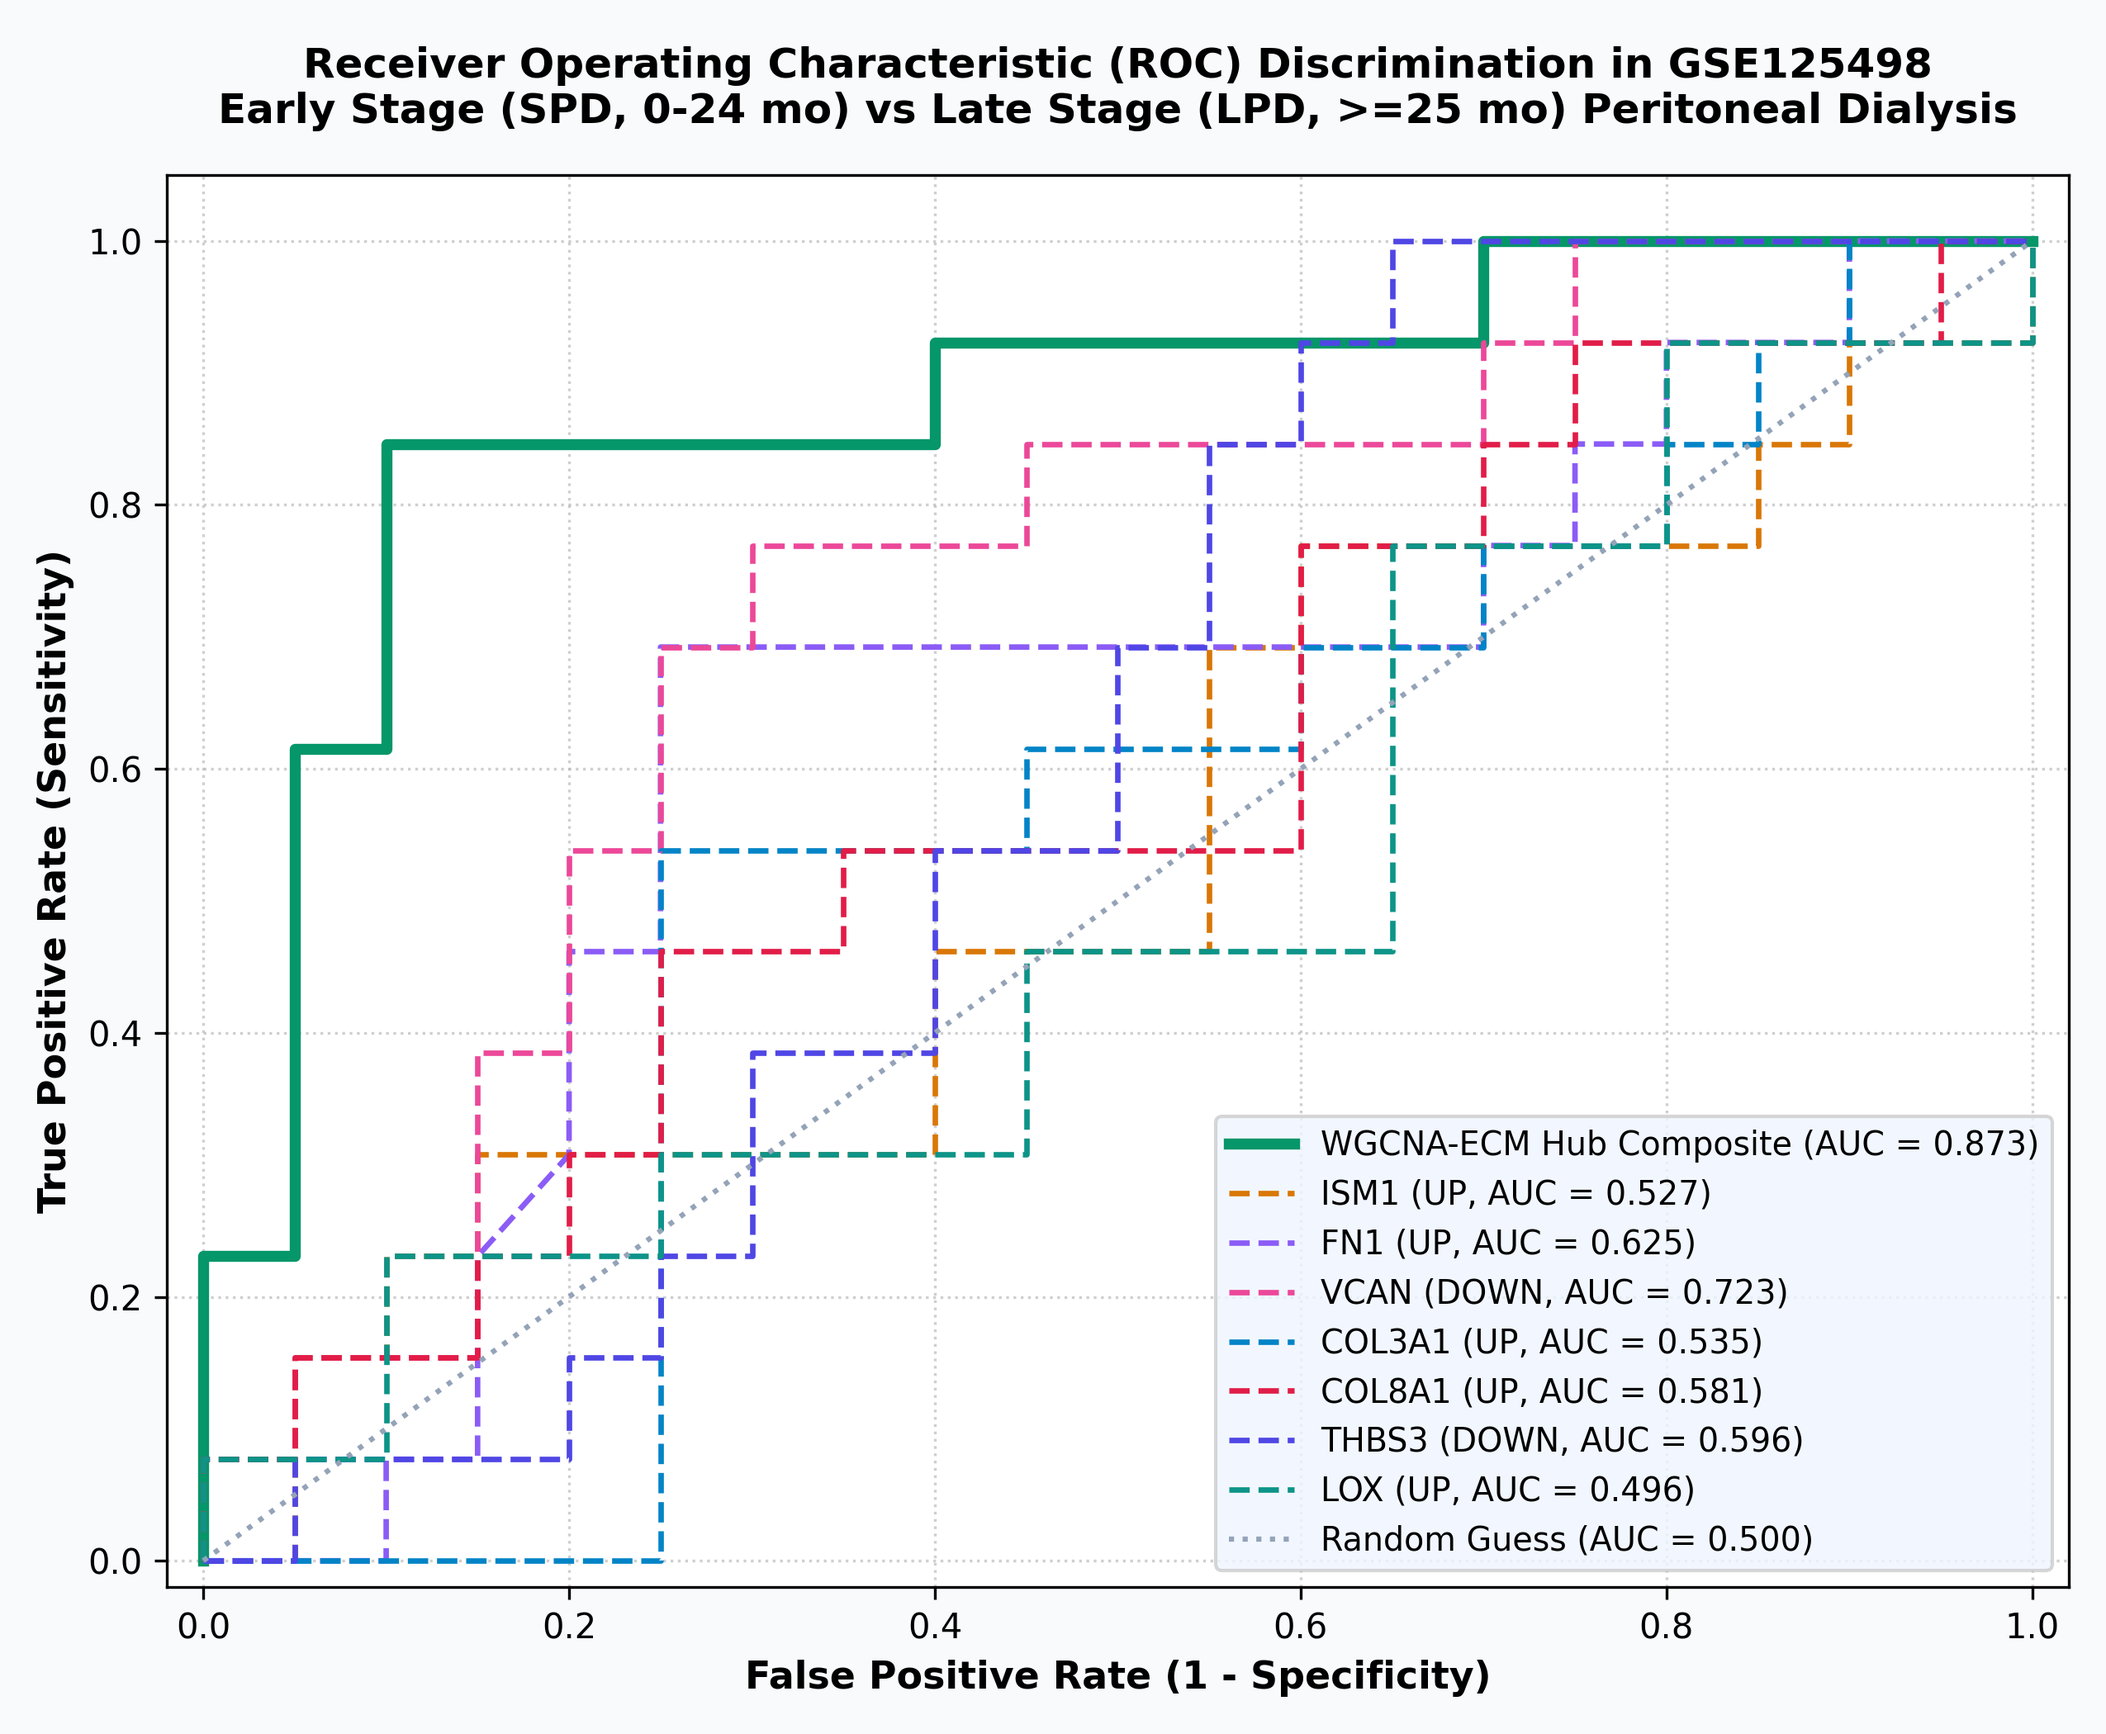
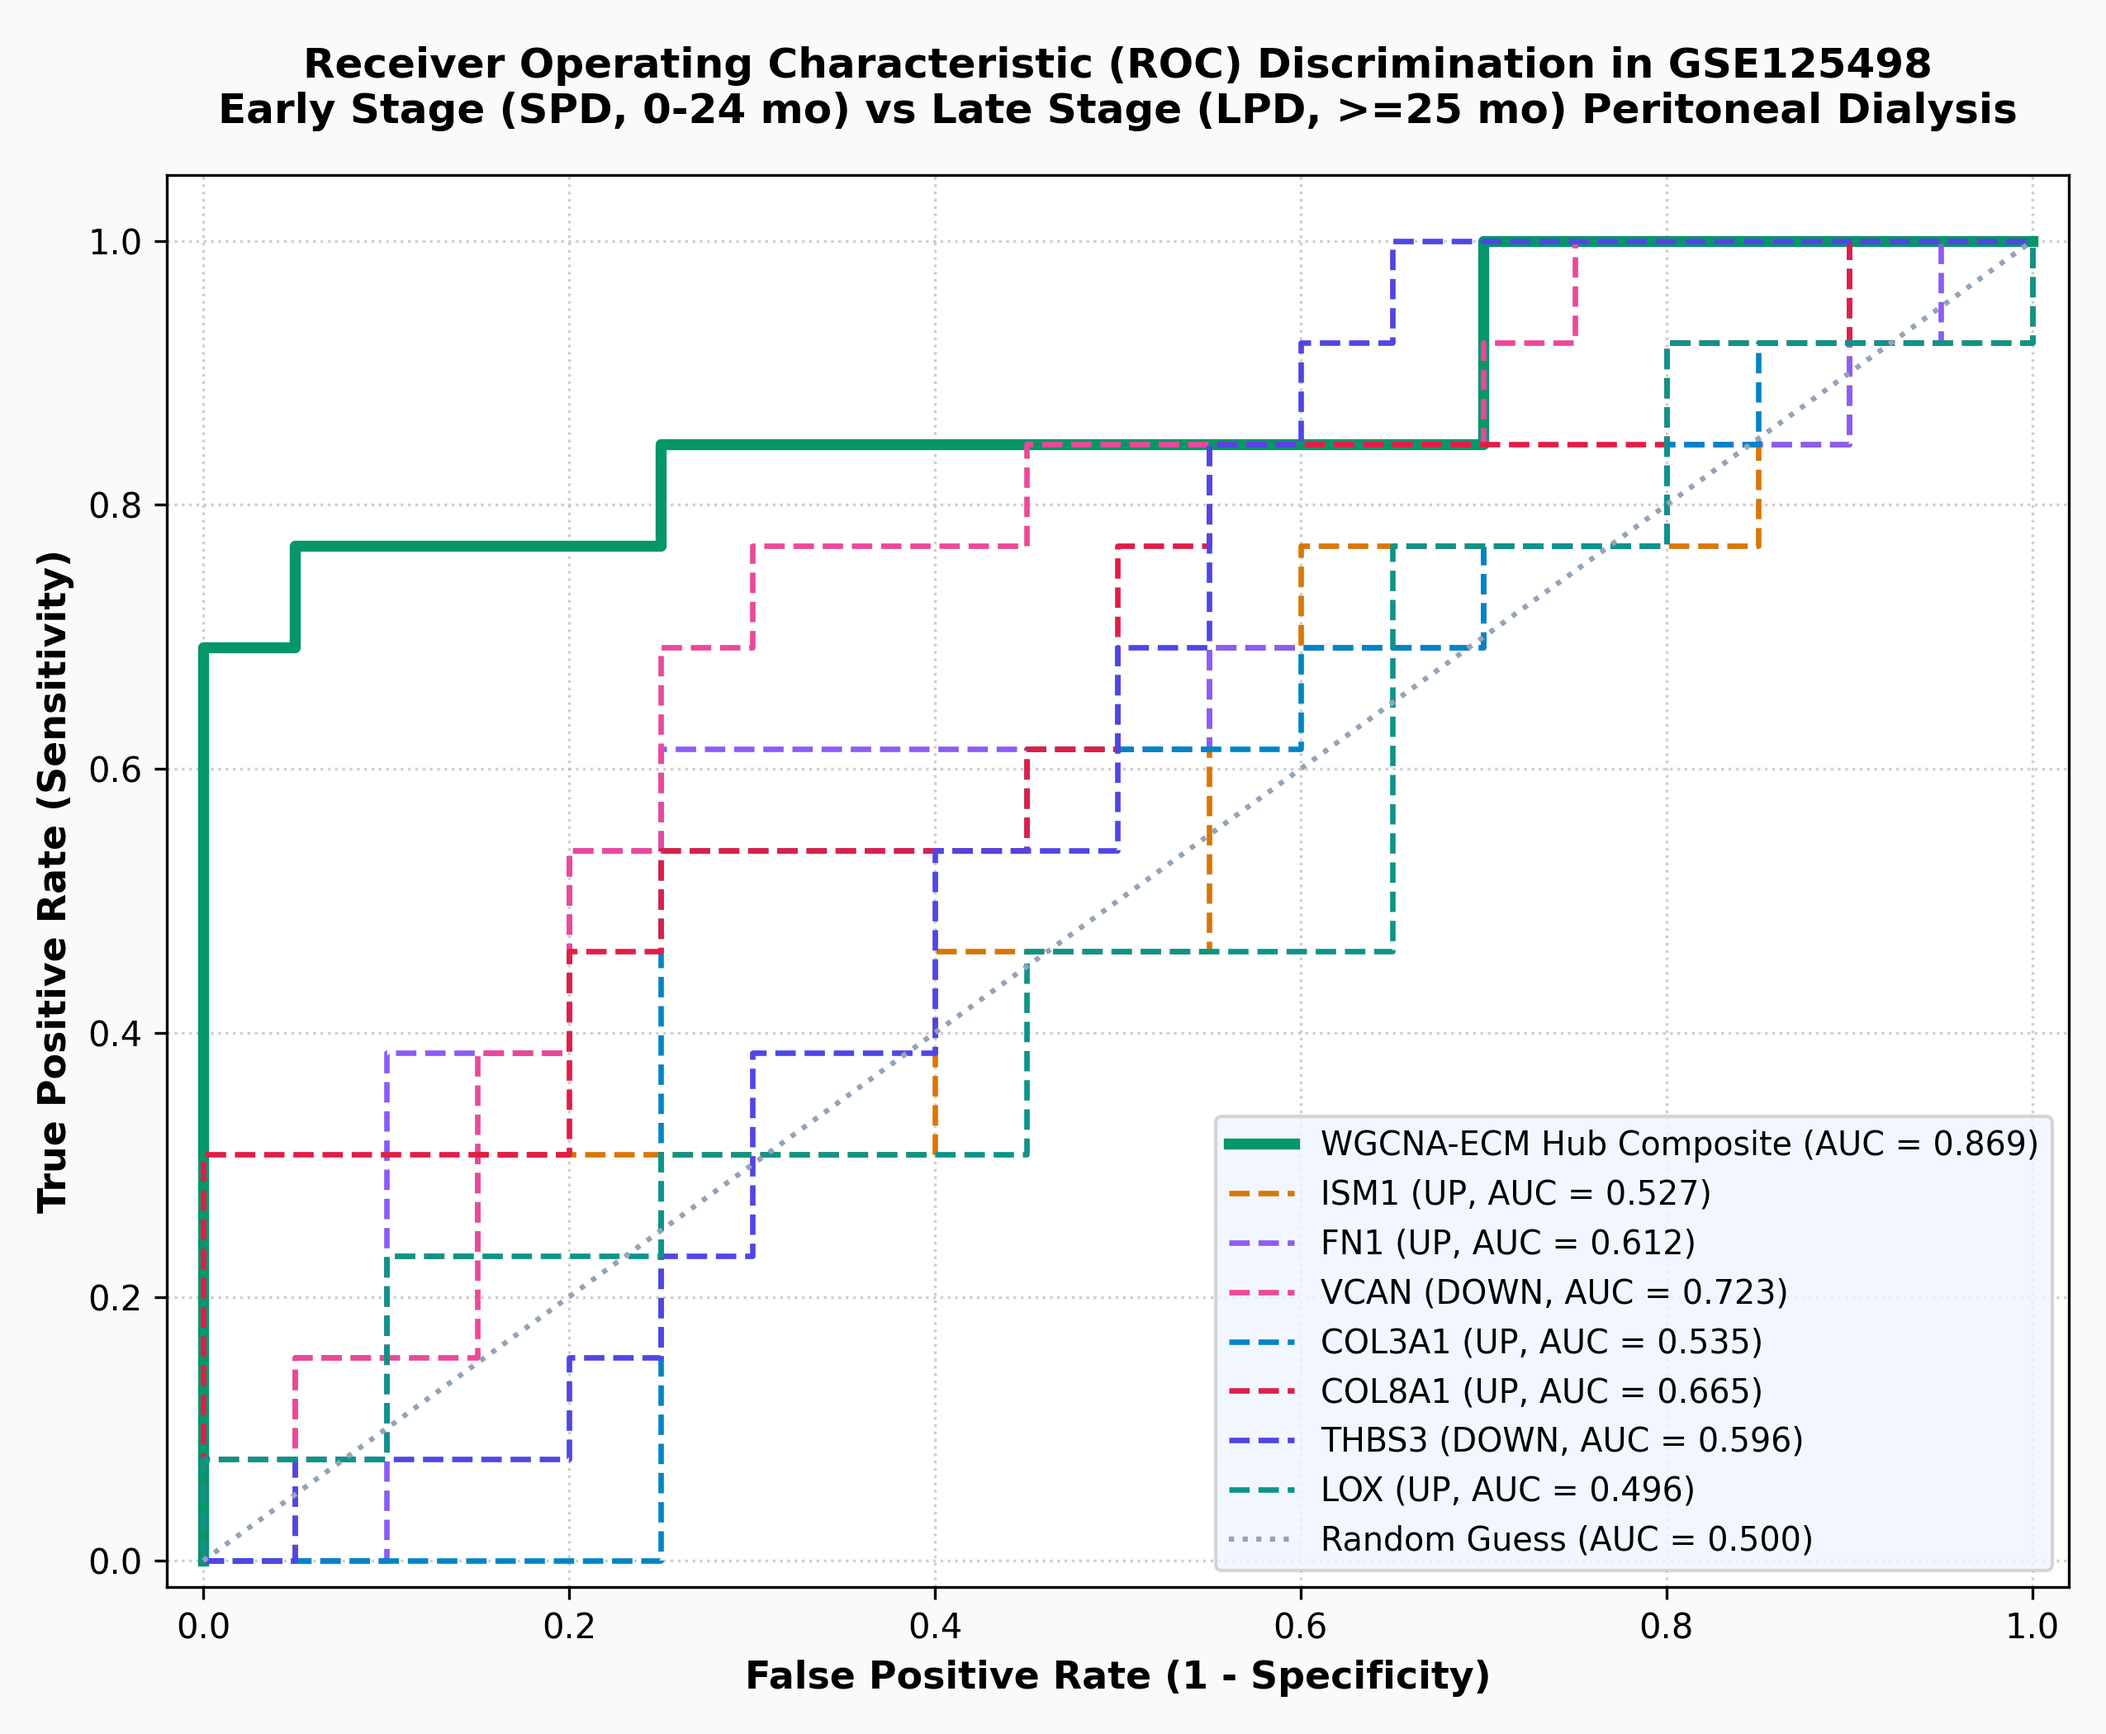
Integrate official Validation/GSE125498.top.table.tsv statistics into external validation

diff --git a/06_external_validation_GSE125498.py b/06_external_validation_GSE125498.py
@@ -69,36 +69,64 @@ else:
 
 print(f"Target Hub Genes: {', '.join(target_genes)}")
 
-# Probe collapsing using MaxMean rule
+# Load official differential expression statistics from Validation/GSE125498.top.table.tsv
+top_table_file = "Validation/GSE125498.top.table.tsv"
+if os.path.exists(top_table_file):
+    df_tt = pd.read_csv(top_table_file, sep="\t")
+    df_tt["Gene_clean"] = df_tt["Gene.symbol"].fillna("").astype(str).str.strip().str.upper()
+    print(f"Loaded official differential expression statistics from {top_table_file} ({len(df_tt)} probes).")
+else:
+    df_tt = pd.DataFrame()
+
+# Probe matching and validation metrics
 gene_expr_dict = {}
 validation_metrics = []
 missing_genes = []
 
 for gene in target_genes:
-    matching = df_gpl[(df_gpl["Sym"] == gene) | (df_gpl["ILMN"] == gene)]["ID"].tolist()
-    if not matching:
+    # 1. Match in GPL / Top Table
+    matching_probes = []
+    if not df_tt.empty:
+        tt_match = df_tt[df_tt["Gene_clean"].apply(lambda x: gene == x or gene in [s.strip() for s in x.split("///")])]
+        if len(tt_match) > 0:
+            # Sort by P.Value to find most significant representative probe
+            best_tt = tt_match.sort_values("P.Value").iloc[0]
+            best_probe = best_tt["ID"]
+            limma_logfc = best_tt["logFC"]
+            limma_pval = best_tt["P.Value"]
+            limma_adjpval = best_tt["adj.P.Val"]
+            limma_t = best_tt["t"]
+            limma_b = best_tt["B"]
+            gene_title = best_tt.get("Gene.title", "")
+            matching_probes = [best_probe]
+    
+    if not matching_probes:
+        # Fallback to GPL annotation matching
+        matching_probes = df_gpl[(df_gpl["Sym"] == gene) | (df_gpl["ILMN"] == gene)]["ID"].tolist()
+        limma_logfc, limma_pval, limma_adjpval, limma_t, limma_b, gene_title = None, None, None, None, None, ""
+
+    if not matching_probes or not any(p in piv.index for p in matching_probes):
         missing_genes.append(gene)
         continue
     
-    probe_data = piv.loc[piv.index.isin(matching)]
+    # Extract probe expression data
+    probe_data = piv.loc[piv.index.isin(matching_probes)]
     if len(probe_data) == 0:
         missing_genes.append(gene)
         continue
     
-    # Best probe by MaxMean
-    best_probe = probe_data.mean(axis=1).idxmax()
+    best_probe = matching_probes[0] if matching_probes[0] in probe_data.index else probe_data.mean(axis=1).idxmax()
     vals = probe_data.loc[best_probe]
     
     val_early = vals[early_samples].astype(float)
     val_late = vals[late_samples].astype(float)
     
-    # Store for matrix
+    # Store for multi-gene signature matrix
     gene_expr_dict[gene] = vals[all_samples].astype(float).values
     
-    # Statistical tests: Mann-Whitney U
+    # Non-parametric Mann-Whitney U test across clinical cohorts
     u_stat, u_pval = mannwhitneyu(val_late, val_early, alternative="two-sided")
     
-    # Log2 difference (LPD - SPD)
     mean_early = val_early.mean()
     mean_late = val_late.mean()
     median_early = val_early.median()
@@ -112,26 +140,31 @@ for gene in target_genes:
     fpr, tpr, _ = roc_curve(y_binary, score_for_roc)
     roc_auc = auc(fpr, tpr)
     
+    # Validation significance flag
+    is_sig = "YES (P < 0.05)" if (limma_pval is not None and limma_pval < 0.05) or u_pval < 0.05 else "NO"
+    
     validation_metrics.append({
         "Gene_Symbol": gene,
         "Probe_ID": best_probe,
-        "Direction": direction,
-        "log2_FC_Late_vs_Early": log2_diff,
-        "Mean_Early_SPD": mean_early,
-        "Mean_Late_LPD": mean_late,
-        "Median_Early_SPD": median_early,
-        "Median_Late_LPD": median_late,
+        "Gene_Title": gene_title,
+        "Direction_Late_vs_Early": direction,
+        "log2_FC_GSE125498": log2_diff if limma_logfc is None else limma_logfc,
+        "Limma_P_Value": limma_pval,
+        "Limma_adj_P_Val": limma_adjpval,
+        "Limma_t_stat": limma_t,
         "Mann_Whitney_U": u_stat,
         "Mann_Whitney_Pval": u_pval,
-        "AUC_ROC": roc_auc
+        "ROC_AUC": roc_auc,
+        "Statistically_Significant": is_sig
     })
 
 df_metrics = pd.DataFrame(validation_metrics).sort_values("Mann_Whitney_Pval", ascending=True)
 
 print("\n" + "=" * 70)
-print("STEP 2: MANN-WHITNEY U VALIDATION & ROC DISCRIMINATION RESULTS")
+print("STEP 2: VALIDATION RESULTS IN GSE125498 (Validation/GSE125498.top.table.tsv)")
 print("=" * 70)
-print(df_metrics[["Gene_Symbol", "Direction", "log2_FC_Late_vs_Early", "Mann_Whitney_Pval", "AUC_ROC"]].to_string(index=False))
+cols_to_print = ["Gene_Symbol", "Probe_ID", "Direction_Late_vs_Early", "log2_FC_GSE125498", "Limma_P_Value", "Mann_Whitney_Pval", "ROC_AUC", "Statistically_Significant"]
+print(df_metrics[cols_to_print].to_string(index=False))
 
 if missing_genes:
     print(f"\nNote: {len(missing_genes)} hub genes lacked mapped probes on GPL10558: {', '.join(missing_genes)}")
@@ -199,7 +232,7 @@ for idx, gene in enumerate(available_hubs):
     
     # P-value & AUC
     pval = df_metrics[df_metrics["Gene_Symbol"] == gene]["Mann_Whitney_Pval"].values[0]
-    auc_val = df_metrics[df_metrics["Gene_Symbol"] == gene]["AUC_ROC"].values[0]
+    auc_val = df_metrics[df_metrics["Gene_Symbol"] == gene]["ROC_AUC"].values[0]
     p_text = f"P = {pval:.3f}" if pval >= 0.001 else f"P = {pval:.2e}"
     
     ax.set_title(f"{gene}\nAUC = {auc_val:.2f}", fontsize=11, fontweight="bold", pad=8)
@@ -239,7 +272,7 @@ plt.plot(fpr_comp, tpr_comp, color="#059669", linewidth=3.2, label=f"WGCNA-ECM H
 colors_ind = ["#D97706", "#8B5CF6", "#EC4899", "#0284C7", "#E11D48", "#4F46E5", "#0D9488"]
 for idx, g in enumerate(available_hubs):
     c = colors_ind[idx % len(colors_ind)]
-    dir_g = df_metrics[df_metrics["Gene_Symbol"] == g]["Direction"].values[0]
+    dir_g = df_metrics[df_metrics["Gene_Symbol"] == g]["Direction_Late_vs_Early"].values[0]
     score_g = X_val[g].values if dir_g == "UP" else -X_val[g].values
     fg, tg, _ = roc_curve(y_binary, score_g)
     ag = auc(fg, tg)
@@ -264,9 +297,9 @@ print(f"Saved Plot 2: {plot2_file}")
 # Plot 3: Stage Progression Trajectory Bar Chart
 # ------------------------------------------------------------------------------
 plt.figure(figsize=(10, 6), facecolor="#F8FAFC")
-df_sorted = df_metrics.sort_values("log2_FC_Late_vs_Early", ascending=False)
-bar_colors = ["#DC2626" if fc > 0 else "#2563EB" for fc in df_sorted["log2_FC_Late_vs_Early"]]
-bars = plt.bar(df_sorted["Gene_Symbol"], df_sorted["log2_FC_Late_vs_Early"], color=bar_colors, edgecolor="#1E293B", width=0.55)
+df_sorted = df_metrics.sort_values("log2_FC_GSE125498", ascending=False)
+bar_colors = ["#DC2626" if fc > 0 else "#2563EB" for fc in df_sorted["log2_FC_GSE125498"]]
+bars = plt.bar(df_sorted["Gene_Symbol"], df_sorted["log2_FC_GSE125498"], color=bar_colors, edgecolor="#1E293B", width=0.55)
 plt.axhline(0, color="#1E293B", linewidth=1.0)
 
 for bar in bars:
